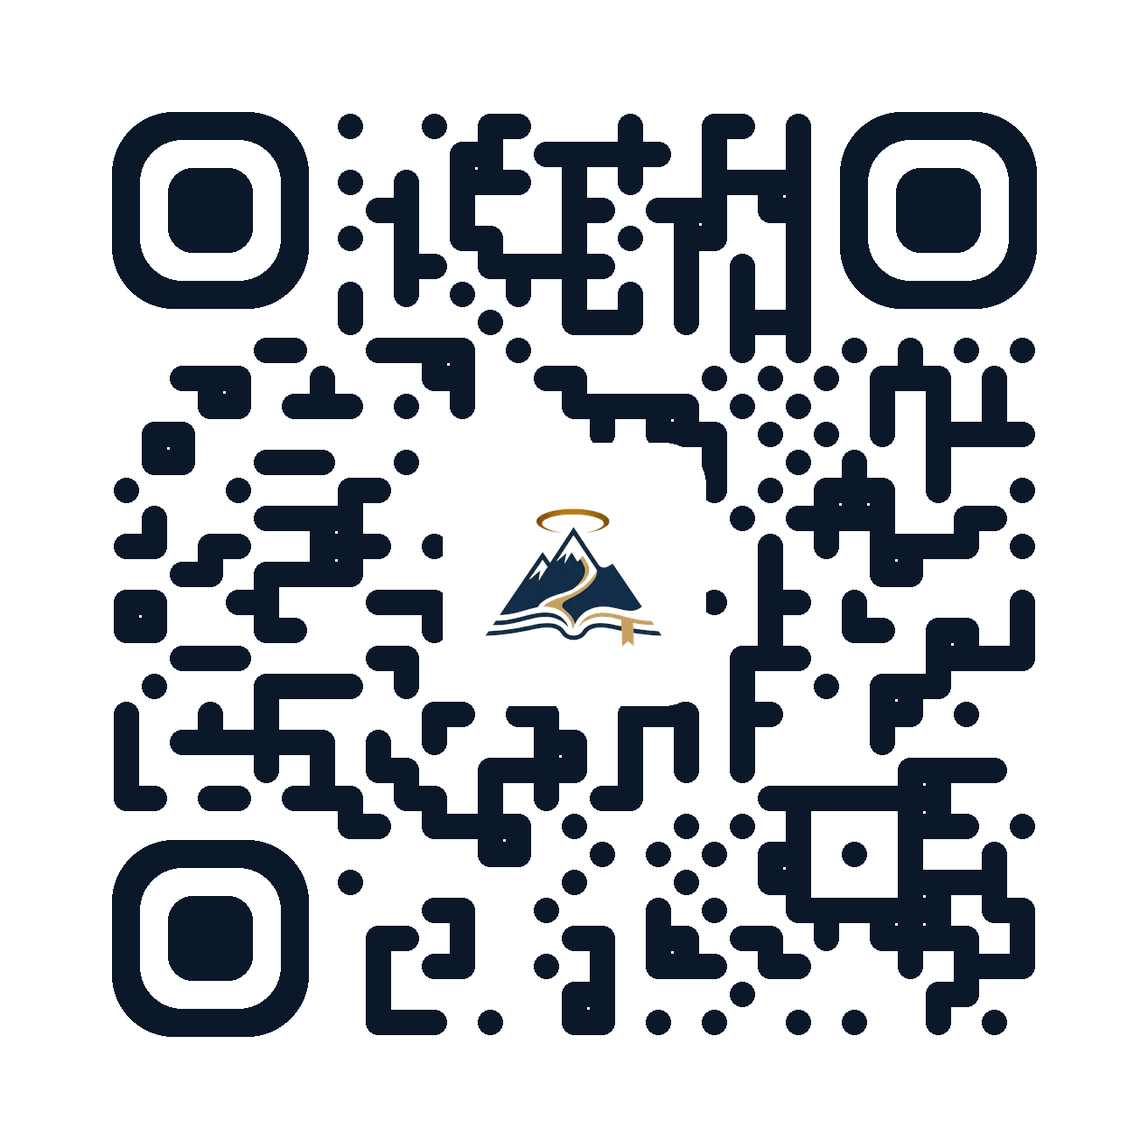
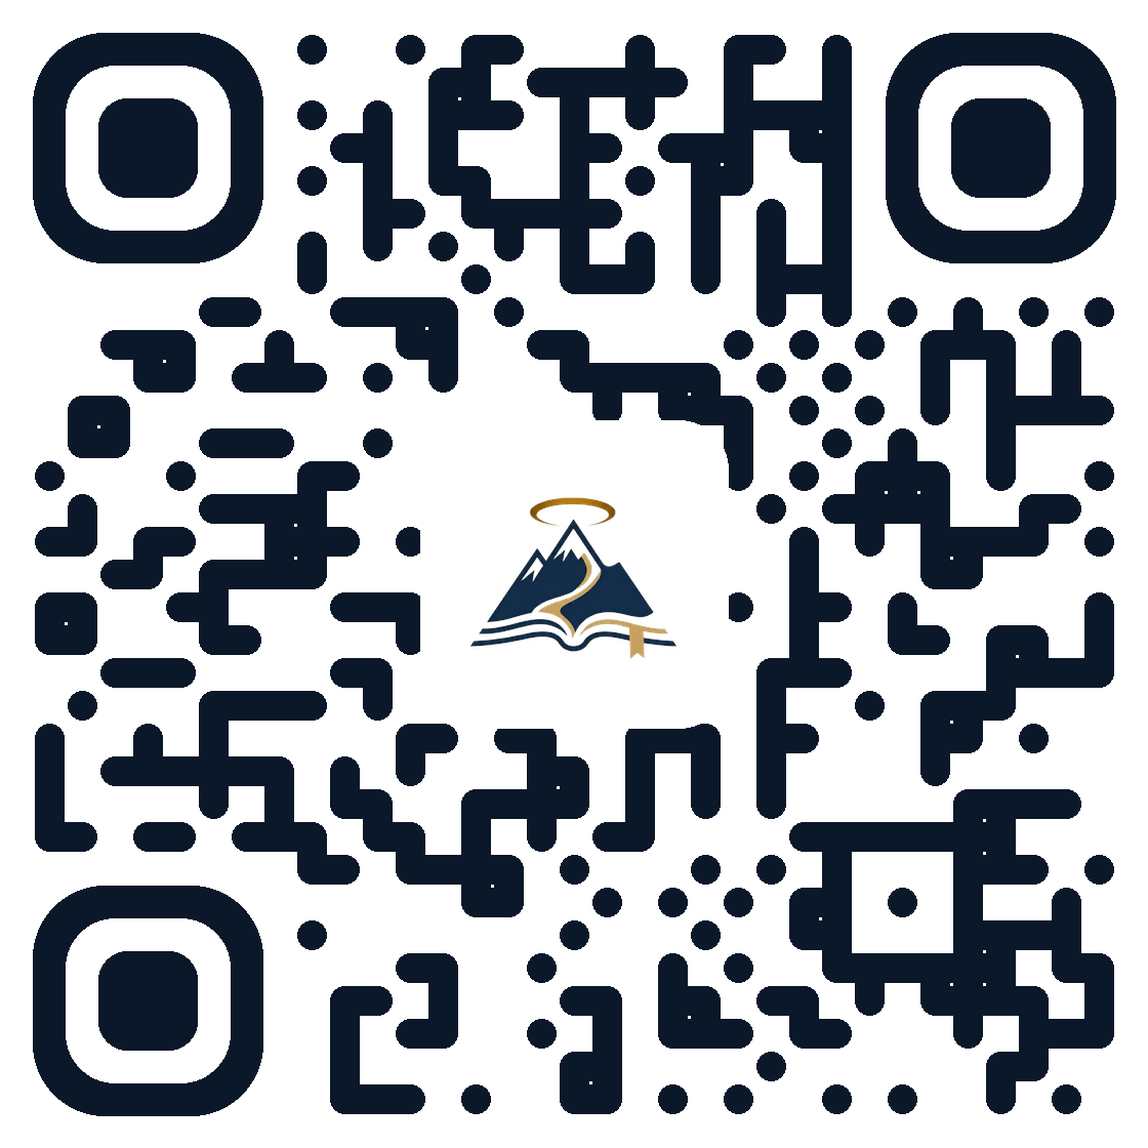
style(qr): expand QR matrix to fill white frame with minimal padding

diff --git a/contact.html b/contact.html
@@ -931,7 +931,7 @@
         .newsletter-qr img {
             width: min(235px, 72vw);
             height: auto;
-            padding: 12px;
+            padding: 8px;
             border-radius: 20px;
             background: #fff;
             border: 3px solid rgba(255,255,255,0.22);

diff --git a/site.css b/site.css
@@ -627,7 +627,7 @@ img { display: block; max-width: 100%; }
   height: auto;
   aspect-ratio: 1 / 1;
   object-fit: contain;
-  padding: 12px;
+  padding: 8px;
   border-radius: 20px;
   background: white;
   border: 3px solid rgba(255,255,255,.22);

diff --git a/scripts/generate_styled_qrcodes.py b/scripts/generate_styled_qrcodes.py
@@ -14,7 +14,7 @@ def generate_styled_qr(data_url, logo_path, output_path, target_size=1148):
         version=None,
         error_correction=qrcode.constants.ERROR_CORRECT_H,
         box_size=32,
-        border=4
+        border=1
     )
     qr.add_data(data_url)
     qr.make(fit=True)
@@ -28,7 +28,7 @@ def generate_styled_qr(data_url, logo_path, output_path, target_size=1148):
 
     color_primary = (11, 24, 42, 255) # #0b182a navy
 
-    b = 4
+    b = 1
 
     def in_finder_zone(r, c):
         # top-left
